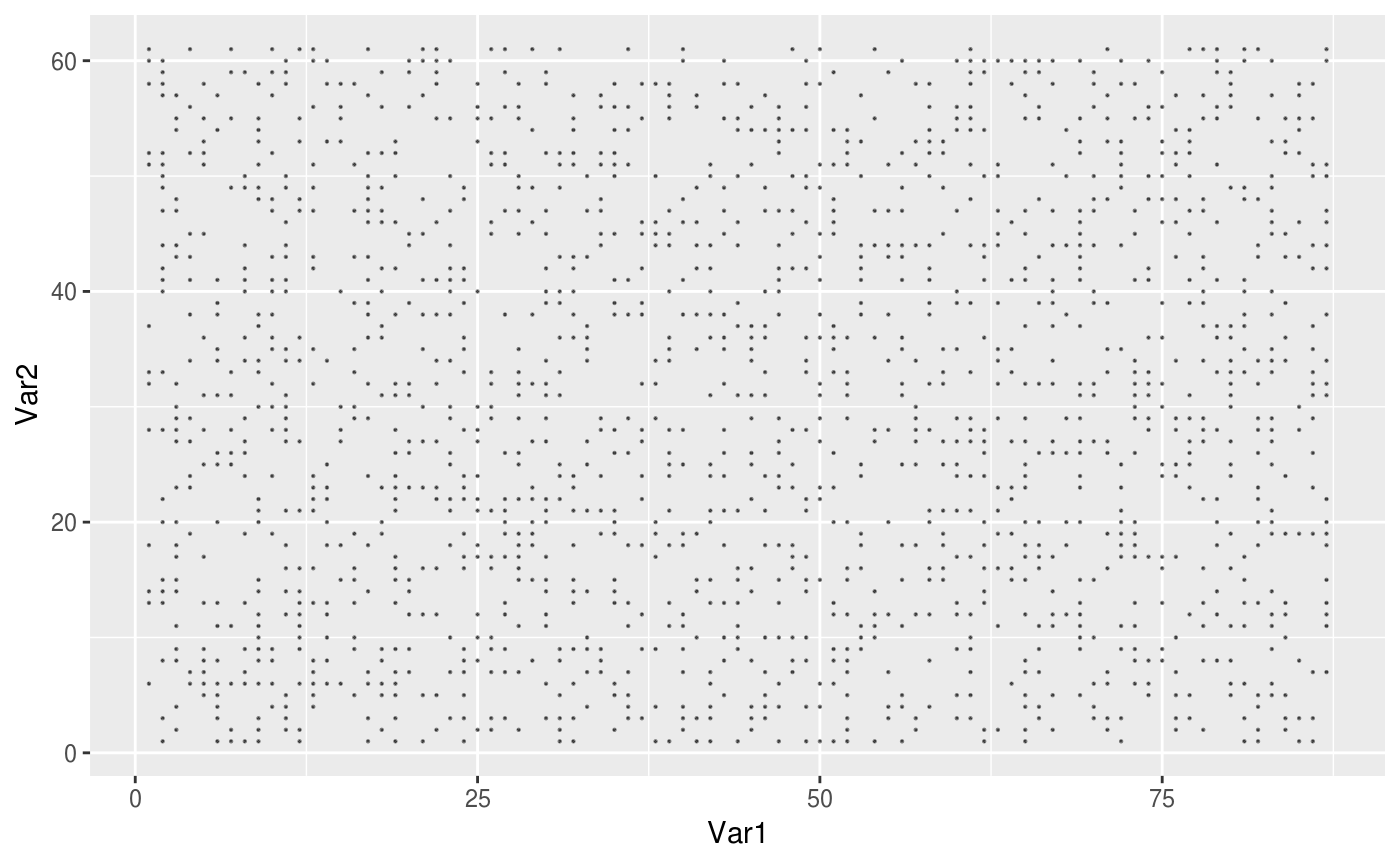
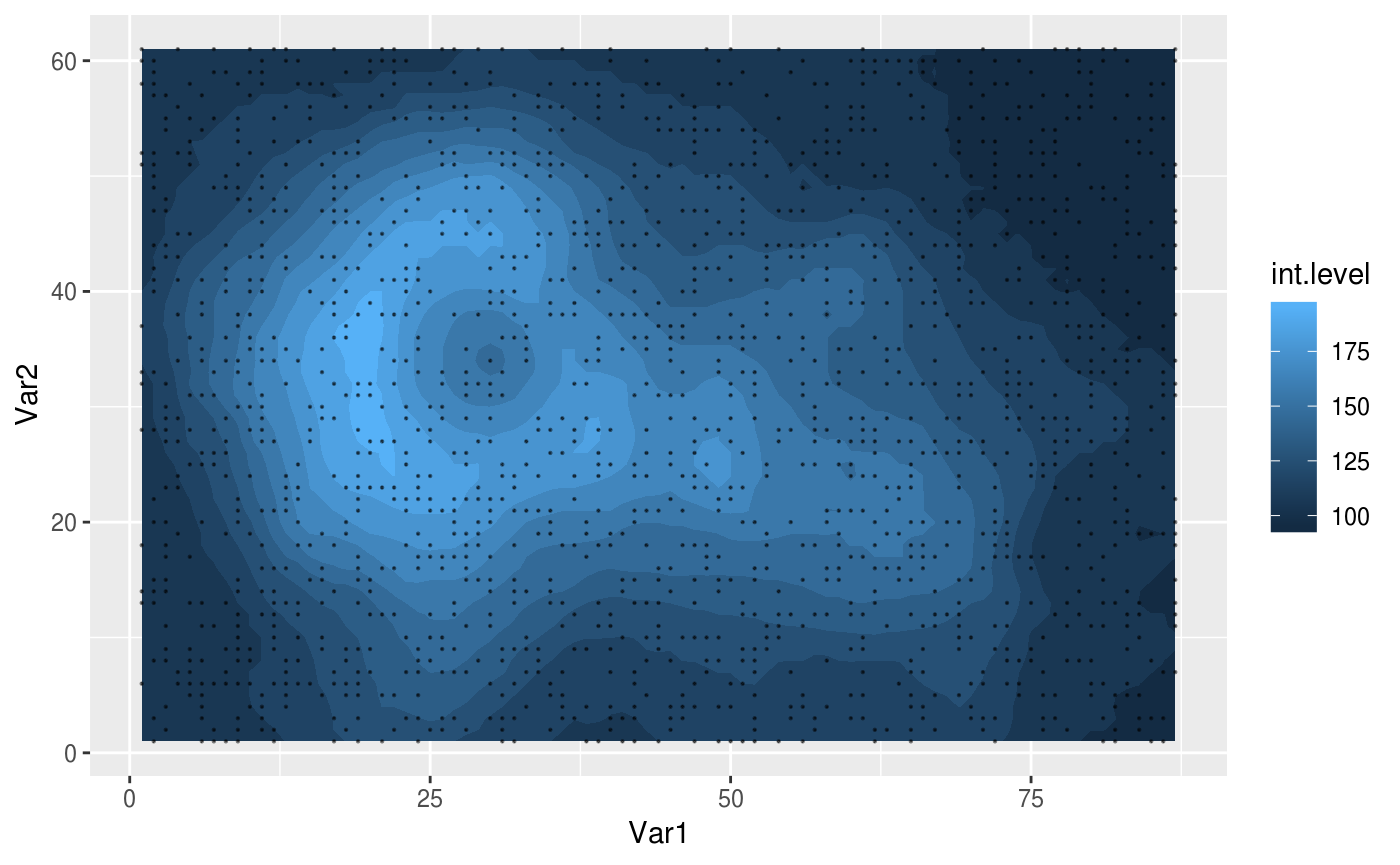
Deploy eliocamp/metR to github.com/eliocamp/metR.git:gh-pages

diff --git a/reference/geom_contour_fill.html b/reference/geom_contour_fill.html
@@ -142,12 +142,12 @@ have all the same binwidth.</p>
 
     <pre class="usage"><span class='fu'>geom_contour_fill</span>(<span class='kw'>mapping</span> <span class='kw'>=</span> <span class='kw'>NULL</span>, <span class='kw'>data</span> <span class='kw'>=</span> <span class='kw'>NULL</span>, <span class='kw'>stat</span> <span class='kw'>=</span> <span class='st'>"ContourFill"</span>,
   <span class='kw'>position</span> <span class='kw'>=</span> <span class='st'>"identity"</span>, <span class='no'>...</span>, <span class='kw'>breaks</span> <span class='kw'>=</span> <span class='kw'>NULL</span>, <span class='kw'>bins</span> <span class='kw'>=</span> <span class='kw'>NULL</span>,
-  <span class='kw'>binwidth</span> <span class='kw'>=</span> <span class='kw'>NULL</span>, <span class='kw'>na.fill</span> <span class='kw'>=</span> <span class='fl'>FALSE</span>, <span class='kw'>xwrap</span> <span class='kw'>=</span> <span class='kw'>NULL</span>, <span class='kw'>ywrap</span> <span class='kw'>=</span> <span class='kw'>NULL</span>,
+  <span class='kw'>binwidth</span> <span class='kw'>=</span> <span class='kw'>NULL</span>, <span class='kw'>na.fill</span> <span class='kw'>=</span> <span class='fl'>TRUE</span>, <span class='kw'>xwrap</span> <span class='kw'>=</span> <span class='kw'>NULL</span>, <span class='kw'>ywrap</span> <span class='kw'>=</span> <span class='kw'>NULL</span>,
   <span class='kw'>show.legend</span> <span class='kw'>=</span> <span class='fl'>NA</span>, <span class='kw'>inherit.aes</span> <span class='kw'>=</span> <span class='fl'>TRUE</span>)
 
 <span class='fu'>stat_contour_fill</span>(<span class='kw'>mapping</span> <span class='kw'>=</span> <span class='kw'>NULL</span>, <span class='kw'>data</span> <span class='kw'>=</span> <span class='kw'>NULL</span>, <span class='kw'>geom</span> <span class='kw'>=</span> <span class='st'>"polygon"</span>,
   <span class='kw'>position</span> <span class='kw'>=</span> <span class='st'>"identity"</span>, <span class='no'>...</span>, <span class='kw'>breaks</span> <span class='kw'>=</span> <span class='kw pkg'>scales</span><span class='kw ns'>::</span><span class='no'><a href='http://www.rdocumentation.org/packages/scales/topics/fullseq'>fullseq</a></span>, <span class='kw'>bins</span> <span class='kw'>=</span> <span class='kw'>NULL</span>,
-  <span class='kw'>binwidth</span> <span class='kw'>=</span> <span class='kw'>NULL</span>, <span class='kw'>na.fill</span> <span class='kw'>=</span> <span class='fl'>FALSE</span>, <span class='kw'>xwrap</span> <span class='kw'>=</span> <span class='kw'>NULL</span>, <span class='kw'>ywrap</span> <span class='kw'>=</span> <span class='kw'>NULL</span>,
+  <span class='kw'>binwidth</span> <span class='kw'>=</span> <span class='kw'>NULL</span>, <span class='kw'>na.fill</span> <span class='kw'>=</span> <span class='fl'>TRUE</span>, <span class='kw'>xwrap</span> <span class='kw'>=</span> <span class='kw'>NULL</span>, <span class='kw'>ywrap</span> <span class='kw'>=</span> <span class='kw'>NULL</span>,
   <span class='kw'>show.legend</span> <span class='kw'>=</span> <span class='fl'>NA</span>, <span class='kw'>inherit.aes</span> <span class='kw'>=</span> <span class='fl'>TRUE</span>)</pre>
     
     <h2 class="hasAnchor" id="arguments"><a class="anchor" href="#arguments"></a>Arguments</h2>
@@ -206,7 +206,7 @@ to the paired geom/stat.</p></td>
       <th>na.fill</th>
       <td><p>How to fill missing values.</p><ul>
 <li><p><code>FALSE</code> for leting the computation fail with no interpolation</p></li>
-<li><p><code>TRUE</code> for imputing missing values with akima::interpp</p></li>
+<li><p><code>TRUE</code> for imputing missing values with <a href='http://www.rdocumentation.org/packages/akima/topics/interpp'>akima::interpp</a></p></li>
 <li><p>A numeric value for constant imputation</p></li>
 <li><p>A function that takes a vector and returns a numeric (e.g. <code>mean</code>)</p></li>
 </ul></td>
@@ -235,13 +235,6 @@ the default plot specification, e.g. <code>borders()</code>.</p></td>
       <td><p>The geometric object to use display the data</p></td>
     </tr>
     </table>
-    
-    <h2 class="hasAnchor" id="details"><a class="anchor" href="#details"></a>Details</h2>
-
-    <p>Since the data must be a complete regular grid <code>na.fill</code> controls how to impute
-missing values. The default (<code>NULL</code>) doesn't impute and fails.
-<code>"interpolate"</code> uses bivariate spline interpolation with akima::interpp. If
-it is a numeric value, it imputes</p>
     
     <h2 class="hasAnchor" id="aesthetics"><a class="anchor" href="#aesthetics"></a>Aesthetics</h2>
 
@@ -296,8 +289,6 @@ it is a numeric value, it imputes</p>
     <ul class="nav nav-pills nav-stacked">
       <li><a href="#arguments">Arguments</a></li>
       
-      <li><a href="#details">Details</a></li>
-
       <li><a href="#aesthetics">Aesthetics</a></li>
 
       <li><a href="#computed-variables">Computed variables</a></li>

diff --git a/reference/geom_contour2.html b/reference/geom_contour2.html
@@ -133,13 +133,13 @@ per panel.</p>
     <pre class="usage"><span class='fu'>geom_contour2</span>(<span class='kw'>mapping</span> <span class='kw'>=</span> <span class='kw'>NULL</span>, <span class='kw'>data</span> <span class='kw'>=</span> <span class='kw'>NULL</span>, <span class='kw'>stat</span> <span class='kw'>=</span> <span class='st'>"contour2"</span>,
   <span class='kw'>position</span> <span class='kw'>=</span> <span class='st'>"identity"</span>, <span class='no'>...</span>, <span class='kw'>lineend</span> <span class='kw'>=</span> <span class='st'>"butt"</span>, <span class='kw'>linejoin</span> <span class='kw'>=</span> <span class='st'>"round"</span>,
   <span class='kw'>linemitre</span> <span class='kw'>=</span> <span class='fl'>1</span>, <span class='kw'>breaks</span> <span class='kw'>=</span> <span class='kw pkg'>scales</span><span class='kw ns'>::</span><span class='no'><a href='http://www.rdocumentation.org/packages/scales/topics/fullseq'>fullseq</a></span>, <span class='kw'>bins</span> <span class='kw'>=</span> <span class='kw'>NULL</span>,
-  <span class='kw'>binwidth</span> <span class='kw'>=</span> <span class='kw'>NULL</span>, <span class='kw'>na.rm</span> <span class='kw'>=</span> <span class='fl'>FALSE</span>, <span class='kw'>show.legend</span> <span class='kw'>=</span> <span class='fl'>NA</span>,
+  <span class='kw'>binwidth</span> <span class='kw'>=</span> <span class='kw'>NULL</span>, <span class='kw'>na.rm</span> <span class='kw'>=</span> <span class='fl'>FALSE</span>, <span class='kw'>na.fill</span> <span class='kw'>=</span> <span class='fl'>TRUE</span>, <span class='kw'>show.legend</span> <span class='kw'>=</span> <span class='fl'>NA</span>,
   <span class='kw'>inherit.aes</span> <span class='kw'>=</span> <span class='fl'>TRUE</span>)
 
 <span class='fu'>stat_contour2</span>(<span class='kw'>mapping</span> <span class='kw'>=</span> <span class='kw'>NULL</span>, <span class='kw'>data</span> <span class='kw'>=</span> <span class='kw'>NULL</span>, <span class='kw'>geom</span> <span class='kw'>=</span> <span class='st'>"contour2"</span>,
   <span class='kw'>position</span> <span class='kw'>=</span> <span class='st'>"identity"</span>, <span class='no'>...</span>, <span class='kw'>breaks</span> <span class='kw'>=</span> <span class='kw pkg'>scales</span><span class='kw ns'>::</span><span class='no'><a href='http://www.rdocumentation.org/packages/scales/topics/fullseq'>fullseq</a></span>, <span class='kw'>bins</span> <span class='kw'>=</span> <span class='kw'>NULL</span>,
-  <span class='kw'>binwidth</span> <span class='kw'>=</span> <span class='kw'>NULL</span>, <span class='kw'>na.rm</span> <span class='kw'>=</span> <span class='fl'>FALSE</span>, <span class='kw'>xwrap</span> <span class='kw'>=</span> <span class='kw'>NULL</span>, <span class='kw'>ywrap</span> <span class='kw'>=</span> <span class='kw'>NULL</span>,
-  <span class='kw'>show.legend</span> <span class='kw'>=</span> <span class='fl'>NA</span>, <span class='kw'>inherit.aes</span> <span class='kw'>=</span> <span class='fl'>TRUE</span>)</pre>
+  <span class='kw'>binwidth</span> <span class='kw'>=</span> <span class='kw'>NULL</span>, <span class='kw'>na.rm</span> <span class='kw'>=</span> <span class='fl'>FALSE</span>, <span class='kw'>na.fill</span> <span class='kw'>=</span> <span class='fl'>TRUE</span>, <span class='kw'>xwrap</span> <span class='kw'>=</span> <span class='kw'>NULL</span>,
+  <span class='kw'>ywrap</span> <span class='kw'>=</span> <span class='kw'>NULL</span>, <span class='kw'>show.legend</span> <span class='kw'>=</span> <span class='fl'>NA</span>, <span class='kw'>inherit.aes</span> <span class='kw'>=</span> <span class='fl'>TRUE</span>)</pre>
     
     <h2 class="hasAnchor" id="arguments"><a class="anchor" href="#arguments"></a>Arguments</h2>
     <table class="ref-arguments">
@@ -213,6 +213,15 @@ and returns breaks as output</p></li>
       <th>na.rm</th>
       <td><p>If <code>FALSE</code>, the default, missing values are removed with
 a warning. If <code>TRUE</code>, missing values are silently removed.</p></td>
+    </tr>
+    <tr>
+      <th>na.fill</th>
+      <td><p>How to fill missing values.</p><ul>
+<li><p><code>FALSE</code> for leting the computation fail with no interpolation</p></li>
+<li><p><code>TRUE</code> for imputing missing values with <a href='http://www.rdocumentation.org/packages/akima/topics/interpp'>akima::interpp</a></p></li>
+<li><p>A numeric value for constant imputation</p></li>
+<li><p>A function that takes a vector and returns a numeric (e.g. <code>mean</code>)</p></li>
+</ul></td>
     </tr>
     <tr>
       <th>show.legend</th>

diff --git a/articles/Visualization-tools.html b/articles/Visualization-tools.html
@@ -85,7 +85,7 @@
       <h1>Visualization tools</h1>
                         <h4 class="author">Elio Campitelli</h4>
             
-            <h4 class="date">2018-08-10</h4>
+            <h4 class="date">2018-08-11</h4>
       
       <small class="dont-index">Source: <a href="https://github.com/eliocamp/metR/blob/master/vignettes/Visualization-tools.Rmd"><code>vignettes/Visualization-tools.Rmd</code></a></small>
       <div class="hidden name"><code>Visualization-tools.Rmd</code></div>
@@ -155,8 +155,7 @@
 <a class="sourceLine" id="cb4-6" data-line-number="6"><span class="kw"><a href="http://www.rdocumentation.org/packages/ggplot2/topics/ggplot">ggplot</a></span>(v, <span class="kw"><a href="http://www.rdocumentation.org/packages/ggplot2/topics/aes">aes</a></span>(Var1, Var2, <span class="dt">z =</span> value.gap)) <span class="op">+</span></a>
 <a class="sourceLine" id="cb4-7" data-line-number="7"><span class="st">    </span><span class="kw"><a href="../reference/geom_contour_fill.html">geom_contour_fill</a></span>(<span class="dt">breaks =</span> breaks, <span class="dt">na.fill =</span> <span class="ot">TRUE</span>) <span class="op">+</span></a>
 <a class="sourceLine" id="cb4-8" data-line-number="8"><span class="st">    </span><span class="kw"><a href="http://www.rdocumentation.org/packages/ggplot2/topics/geom_point">geom_point</a></span>(<span class="dt">data =</span> v[<span class="kw">is.na</span>(value.gap)], <span class="dt">size =</span> <span class="fl">0.1</span>, <span class="dt">alpha =</span> <span class="fl">0.5</span>)</a>
-<a class="sourceLine" id="cb4-9" data-line-number="9"><span class="co">#&gt; Warning: Computation failed in `stat_contour_fill()`:</span></a>
-<a class="sourceLine" id="cb4-10" data-line-number="10"><span class="co">#&gt; there is no package called 'akima'</span></a></code></pre></div>
+<a class="sourceLine" id="cb4-9" data-line-number="9"><span class="co">#&gt; Warning: imputing missing values</span></a></code></pre></div>
 <p><img src="Visualization-tools_files/figure-html/unnamed-chunk-4-1.png" width="700"></p>
 <p>We can apply this to a more realistic dataset</p>
 <div class="sourceCode" id="cb5"><pre class="sourceCode r"><code class="sourceCode r"><a class="sourceLine" id="cb5-1" data-line-number="1"><span class="kw"><a href="http://www.rdocumentation.org/packages/ggplot2/topics/ggplot">ggplot</a></span>(temperature[lev <span class="op">==</span><span class="st"> </span><span class="dv">300</span>], <span class="kw"><a href="http://www.rdocumentation.org/packages/ggplot2/topics/aes">aes</a></span>(lon, lat, <span class="dt">z =</span> air.z)) <span class="op">+</span></a>
@@ -355,8 +354,7 @@
 <a class="sourceLine" id="cb19-3" data-line-number="3"><span class="st">    </span><span class="kw"><a href="../reference/scale_divergent.html">scale_fill_divergent</a></span>() <span class="op">+</span></a>
 <a class="sourceLine" id="cb19-4" data-line-number="4"><span class="st">    </span><span class="kw"><a href="../reference/scale_longitude.html">scale_x_longitude</a></span>() <span class="op">+</span></a>
 <a class="sourceLine" id="cb19-5" data-line-number="5"><span class="st">    </span><span class="kw"><a href="../reference/scale_longitude.html">scale_y_latitude</a></span>(<span class="dt">limits =</span> <span class="kw">c</span>(<span class="op">-</span><span class="dv">90</span>, <span class="dv">-20</span>)) <span class="op">+</span></a>
-<a class="sourceLine" id="cb19-6" data-line-number="6"><span class="st">    </span><span class="kw"><a href="http://www.rdocumentation.org/packages/ggplot2/topics/coord_polar">coord_polar</a></span>()</a>
-<a class="sourceLine" id="cb19-7" data-line-number="7"><span class="co">#&gt; Warning: Removed 6336 rows containing non-finite values (stat_contour2).</span></a></code></pre></div>
+<a class="sourceLine" id="cb19-6" data-line-number="6"><span class="st">    </span><span class="kw"><a href="http://www.rdocumentation.org/packages/ggplot2/topics/coord_polar">coord_polar</a></span>()</a></code></pre></div>
 <p><img src="Visualization-tools_files/figure-html/unnamed-chunk-19-1.png" width="700"></p>
 </div>
 <div id="dividetimeseries" class="section level2">

diff --git a/reference/FitLm.html b/reference/FitLm.html
@@ -167,7 +167,7 @@ warning.</p>
 <span class='fu'>system.time</span>({
   <span class='no'>regr</span> <span class='kw'>&lt;-</span> <span class='no'>geopotential</span>[, <span class='fu'>FitLm</span>(<span class='no'>gh</span>, <span class='no'>date</span>, <span class='kw'>se</span> <span class='kw'>=</span> <span class='fl'>TRUE</span>), <span class='kw'>by</span> <span class='kw'>=</span> <span class='fu'>.</span>(<span class='no'>lon</span>, <span class='no'>lat</span>)]
 })</div><div class='output co'>#&gt;    user  system elapsed 
-#&gt;   0.360   0.004   0.365 </div><div class='input'>
+#&gt;   0.508   0.000   0.513 </div><div class='input'>
 <span class='fu'><a href='http://www.rdocumentation.org/packages/ggplot2/topics/ggplot'>ggplot</a></span>(<span class='no'>regr</span>[<span class='no'>term</span> <span class='kw'>!=</span> <span class='st'>"(intercept)"</span>], <span class='fu'><a href='http://www.rdocumentation.org/packages/ggplot2/topics/aes'>aes</a></span>(<span class='no'>lon</span>, <span class='no'>lat</span>)) +
     <span class='fu'><a href='http://www.rdocumentation.org/packages/ggplot2/topics/geom_contour'>geom_contour</a></span>(<span class='fu'><a href='http://www.rdocumentation.org/packages/ggplot2/topics/aes'>aes</a></span>(<span class='kw'>z</span> <span class='kw'>=</span> <span class='no'>estimate</span>, <span class='kw'>color</span> <span class='kw'>=</span> <span class='no'>..level..</span>)) +
     <span class='fu'><a href='stat_subset.html'>stat_subset</a></span>(<span class='fu'><a href='http://www.rdocumentation.org/packages/ggplot2/topics/aes'>aes</a></span>(<span class='kw'>subset</span> <span class='kw'>=</span> <span class='fu'>abs</span>(<span class='no'>estimate</span>) <span class='kw'>&gt;</span> <span class='fl'>2</span>*<span class='no'>std.error</span>), <span class='kw'>size</span> <span class='kw'>=</span> <span class='fl'>0.05</span>)</div><div class='output co'>#&gt; <span class='warning'>Warning: Computation failed in `stat_contour()`:</span>

diff --git a/reference/stat_na.html b/reference/stat_na.html
@@ -223,7 +223,7 @@ the default plot specification, e.g. <code>borders()</code>.</p></td>
 
 <span class='fu'><a href='http://www.rdocumentation.org/packages/ggplot2/topics/ggplot'>ggplot</a></span>(<span class='no'>surface</span>, <span class='fu'><a href='http://www.rdocumentation.org/packages/ggplot2/topics/aes'>aes</a></span>(<span class='no'>Var1</span>, <span class='no'>Var2</span>, <span class='kw'>z</span> <span class='kw'>=</span> <span class='no'>value</span>)) +
     <span class='fu'><a href='geom_contour_fill.html'>geom_contour_fill</a></span>() +
-    <span class='fu'>stat_na</span>(<span class='fu'><a href='http://www.rdocumentation.org/packages/ggplot2/topics/aes'>aes</a></span>(<span class='kw'>na</span> <span class='kw'>=</span> <span class='no'>value</span>))</div><div class='output co'>#&gt; <span class='warning'>Warning: data must not have missing values. Use na.fill = TRUE or impute them before plotting.</span></div><div class='img'><img src='stat_na-1.png' alt='' width='700' height='433' /></div><div class='input'>
+    <span class='fu'>stat_na</span>(<span class='fu'><a href='http://www.rdocumentation.org/packages/ggplot2/topics/aes'>aes</a></span>(<span class='kw'>na</span> <span class='kw'>=</span> <span class='no'>value</span>))</div><div class='output co'>#&gt; <span class='warning'>Warning: imputing missing values</span></div><div class='img'><img src='stat_na-1.png' alt='' width='700' height='433' /></div><div class='input'>
 </div></pre>
   </div>
   <div class="col-md-3 hidden-xs hidden-sm" id="sidebar">

diff --git a/articles/Working-with-data.html b/articles/Working-with-data.html
@@ -85,7 +85,7 @@
       <h1>Working with data</h1>
                         <h4 class="author">Elio Campitelli</h4>
             
-            <h4 class="date">2018-08-10</h4>
+            <h4 class="date">2018-08-11</h4>
       
       <small class="dont-index">Source: <a href="https://github.com/eliocamp/metR/blob/master/vignettes/Working-with-data.Rmd"><code>vignettes/Working-with-data.Rmd</code></a></small>
       <div class="hidden name"><code>Working-with-data.Rmd</code></div>
